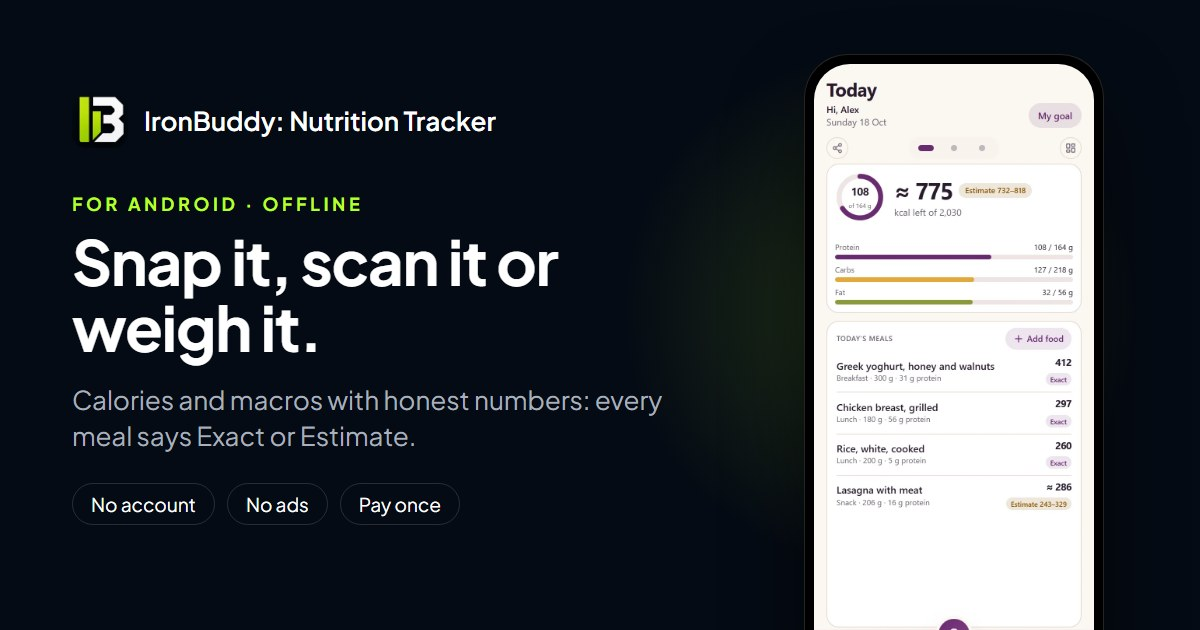
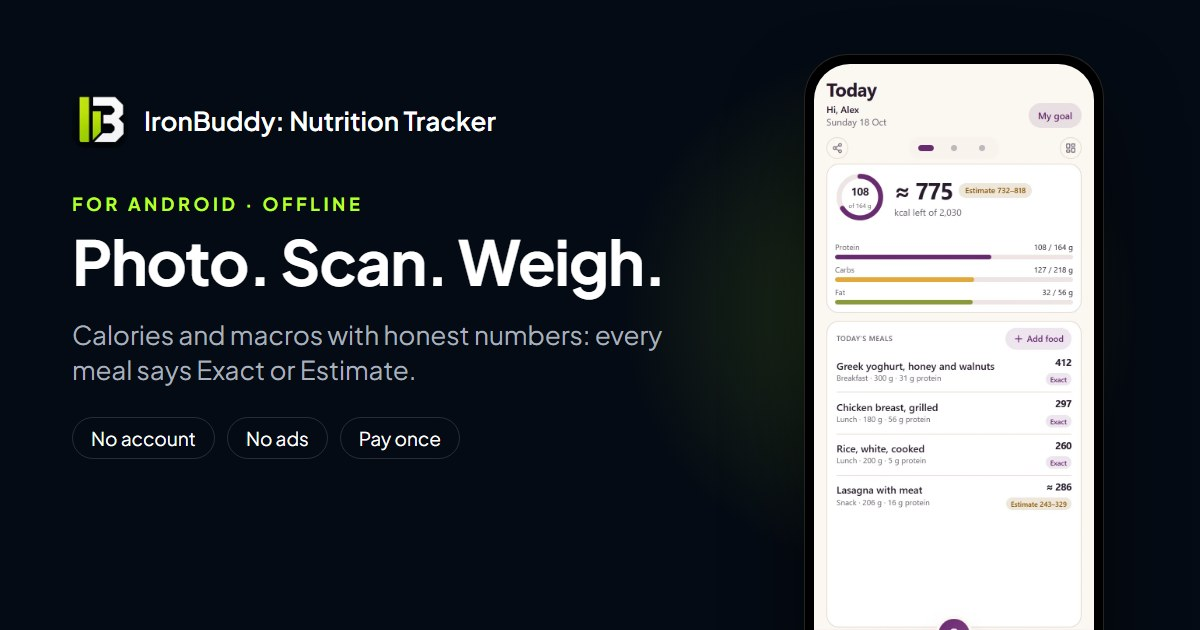
chore(site): drop "snap" from the copy
Hero line is "Photo. Scan. Weigh.", the feature card is "Photograph Your
Plate" and the descriptions say "photograph your plate", matching the
Play listing. The share image is regenerated with the new headline.

Changed region(s): [[0.0617, 0.3619, 0.555, 0.7238], [0.0617, 0.7841, 0.37, 0.8143]]

diff --git a/src/lib/site.ts b/src/lib/site.ts
@@ -24,7 +24,7 @@ export const siteConfig = {
   tagline: "Eat for your goal. Offline, honest, pay once.",
   title: "IronBuddy: Nutrition Tracker – Offline Calorie Counter",
   description:
-    "Offline calorie and macro tracker for Android: snap your plate, scan a barcode or weigh it. Honest numbers, built for people who train. Pay once, no account.",
+    "Offline calorie and macro tracker for Android: photograph your plate, scan a barcode or weigh it. Honest numbers for people who train. Pay once, no account.",
   url: "https://nutrition.ironbuddy.fit",
   /** The brand home page. */
   brandUrl: "https://ironbuddy.fit",
@@ -55,7 +55,7 @@ export const siteConfig = {
   ogImageHeight: 630,
   ogImageType: "image/jpeg",
   ogImageAlt:
-    "IronBuddy: Nutrition Tracker for Android: snap your plate, scan a barcode or weigh it. Offline, no account, pay once.",
+    "IronBuddy: Nutrition Tracker for Android: photograph your plate, scan a barcode or weigh it. Offline, no account, pay once.",
   freeTrialDays,
   price,
 } as const;

diff --git a/src/lib/pages.ts b/src/lib/pages.ts
@@ -40,7 +40,7 @@ export const pages = {
     label: "Home",
     title: "IronBuddy: Nutrition Tracker – Offline Calorie Counter",
     description:
-      "Offline calorie and macro tracker for Android: snap your plate, scan a barcode or weigh it. Honest numbers, built for people who train. Pay once, no account.",
+      "Offline calorie and macro tracker for Android: photograph your plate, scan a barcode or weigh it. Honest numbers for people who train. Pay once, no account.",
     summary: "The offline calorie and macro tracker: photo, barcode or scale, honest numbers, pay once.",
     published: LAUNCH,
     modified: LAUNCH,

diff --git a/src/lib/content.ts b/src/lib/content.ts
@@ -28,7 +28,7 @@ export type FeatureIcon =
 /** Every card states something the app does today (see the app's CHANGELOG). Do not add features that are not shipped. */
 export const features: Array<{ title: string; description: string; icon: FeatureIcon }> = [
   {
-    title: "Snap Your Plate",
+    title: "Photograph Your Plate",
     description: "Recognised on your phone. You pick portion and oil.",
     icon: "camera",
   },

diff --git a/src/components/sections/Hero.tsx b/src/components/sections/Hero.tsx
@@ -29,7 +29,7 @@ export function Hero() {
             </span>
           </h1>
           <p className="mt-2 text-sm font-semibold tracking-tight text-white/85 sm:text-base lg:mt-3 lg:text-2xl">
-            Snap it, scan it or weigh it. Honest numbers, pay once.
+            Photo. Scan. Weigh. Honest numbers, pay once.
           </p>
 
           <ul
